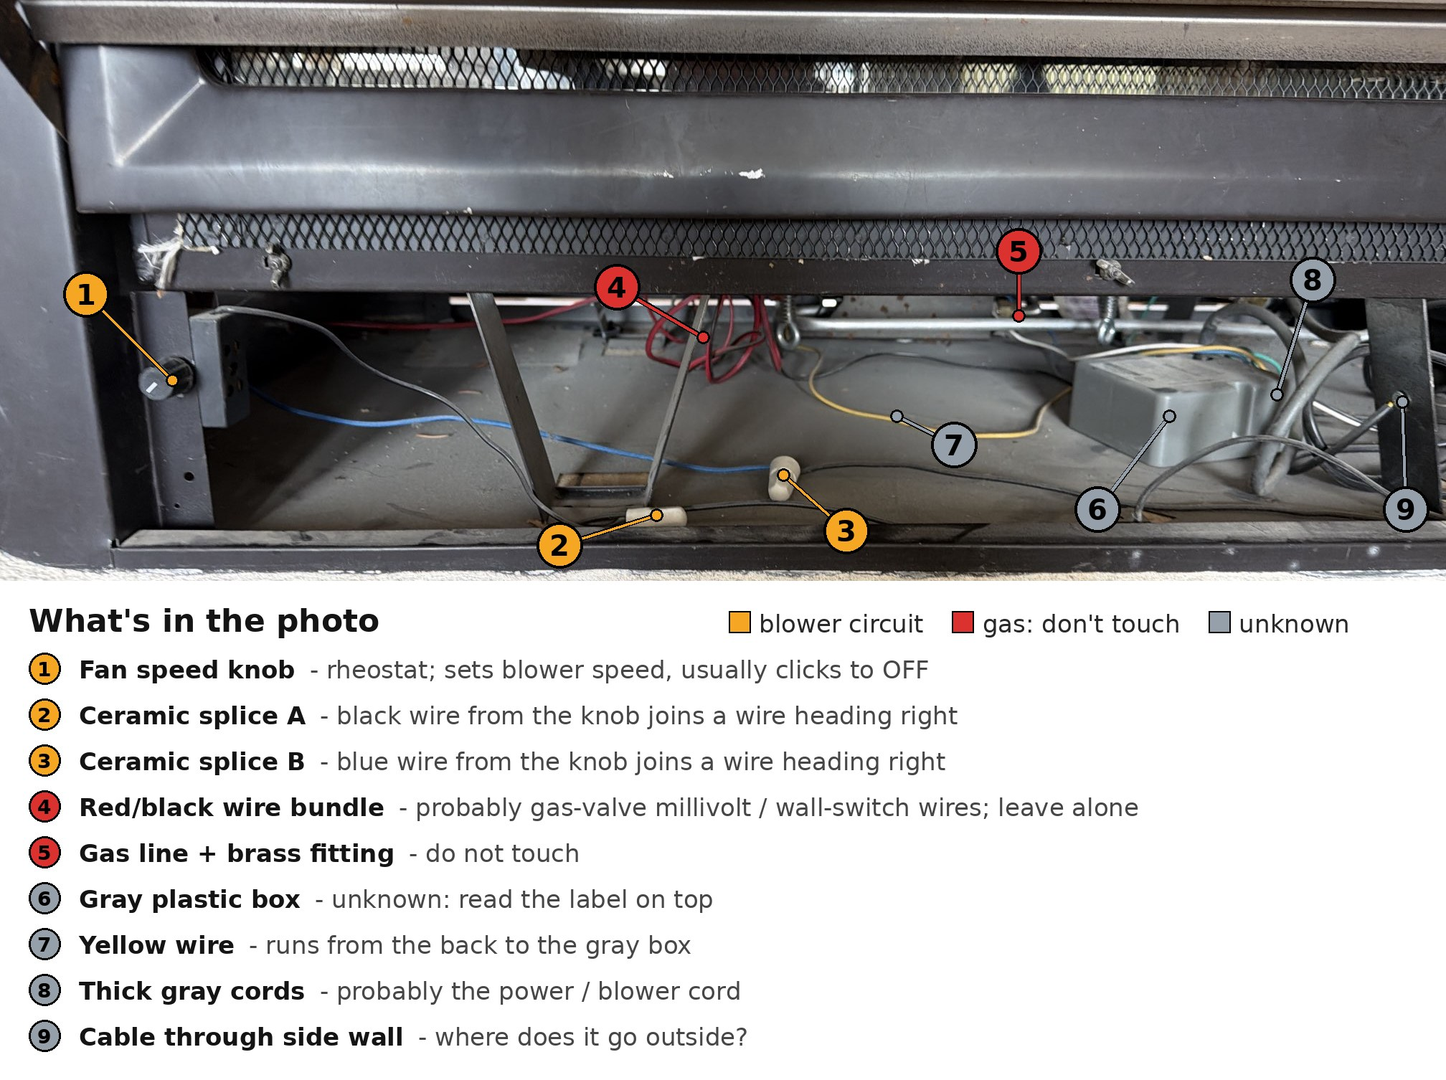
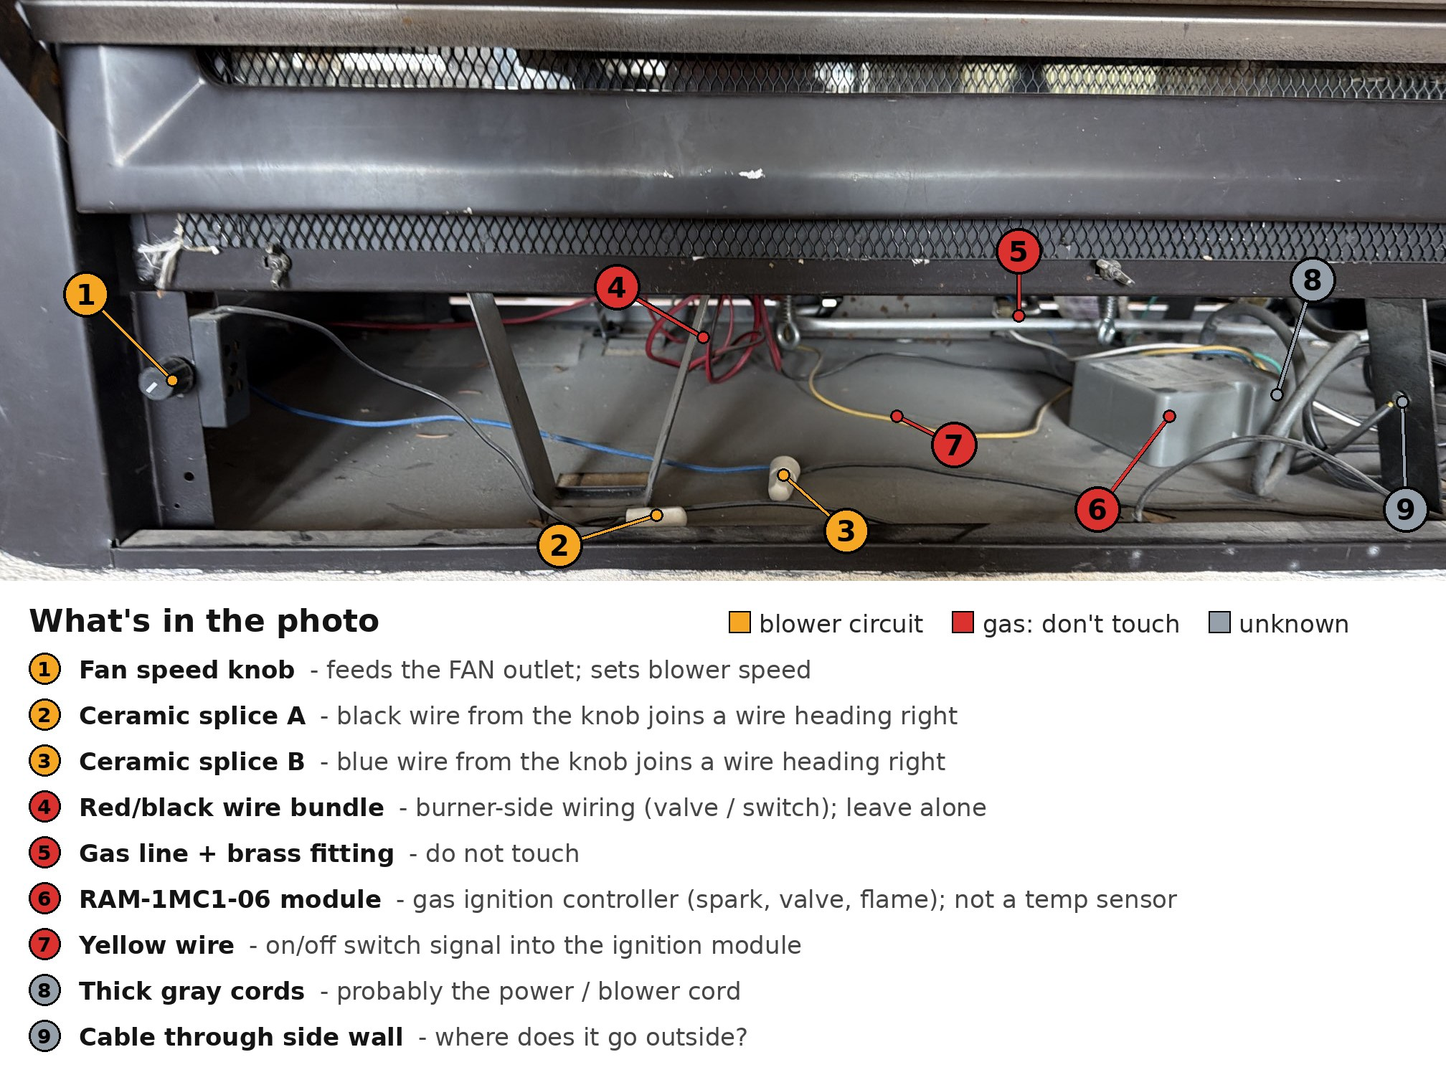
Map the real Heat & Glo DSI wiring and update the Pico hookup
Identify the RAM-1MC1-06 ignition module and the junction box's REM
(always on) and FAN (fed through the speed knob) outlets from the
manufacturer's DSI service diagram. Redraw the schematic to match,
relabel the photos, add checks for the dead FAN outlet, and change the
Pico setup to plug the IoT Relay into the REM outlet.

Claude-Session: https://claude.ai/code/session_018uak9j8cmQfDt7bDYqRs5F

diff --git a/fireplace-fan/docs/schematic.html b/fireplace-fan/docs/schematic.html
@@ -8,158 +8,164 @@
   .lbl { font-size: 16px; font-weight: bold; }
   .sm { font-size: 14px; fill: #444; }
   .warn { font-size: 14px; fill: #c0392b; font-weight: bold; }
+  .ok { font-size: 14px; fill: #b8740a; font-weight: bold; }
   .box { fill: #f4f5f7; stroke: #333; stroke-width: 2; }
   .assumed { fill: #fafafa; stroke: #777; stroke-width: 2; stroke-dasharray: 7 5; }
+  .gasbox { fill: #fdeceb; stroke: #c0392b; stroke-width: 2; }
   .hot { stroke: #222; stroke-width: 4; fill: none; }
-  .hot-a { stroke: #222; stroke-width: 4; fill: none; stroke-dasharray: 10 7; }
-  .neu-a { stroke: #9aa0a6; stroke-width: 4; fill: none; stroke-dasharray: 10 7; }
-  .gnd-a { stroke: #2e9e44; stroke-width: 4; fill: none; stroke-dasharray: 10 7; }
+  .yel { stroke: #d4a017; stroke-width: 4; fill: none; }
   .lv { stroke: #2a6fdb; stroke-width: 3; fill: none; }
   .tc { stroke: #e67e22; stroke-width: 3; fill: none; }
   .splice { fill: #efe6d2; stroke: #8a7c5c; stroke-width: 2; }
   .divider { stroke: #ddd; stroke-width: 2; }
 </style></head>
 <body>
-<svg xmlns="http://www.w3.org/2000/svg" width="1000" height="1215" viewBox="0 0 1000 1215">
+<svg xmlns="http://www.w3.org/2000/svg" width="1000" height="1250" viewBox="0 0 1000 1250">
+  <defs>
+    <g id="outlet">
+      <rect x="0" y="0" width="140" height="62" rx="8" fill="#fff" stroke="#333" stroke-width="2"/>
+      <rect x="14" y="18" width="5" height="16" fill="#333"/>
+      <rect x="30" y="18" width="5" height="16" fill="#333"/>
+      <path d="M20 44 a4.5 4.5 0 0 1 9 0 v4 h-9 z" fill="#333"/>
+    </g>
+  </defs>
 
   <!-- ================= PANEL 1 ================= -->
-  <text x="30" y="42" class="title">1 · How it's most likely wired now</text>
-  <text x="30" y="68" class="sub">Solid = seen in your photo. Dashed = typical for a fireplace blower kit, still to confirm.</text>
+  <text x="30" y="42" class="title">1 · How your fireplace is wired</text>
+  <text x="30" y="68" class="sub">From Heat &amp; Glo's service diagram for RAM-1MC1 fireplaces, matched to your photos. Hot side only.</text>
 
-  <!-- plug -->
-  <rect x="30" y="100" width="120" height="320" rx="10" class="assumed"/>
-  <text x="90" y="125" text-anchor="middle" class="lbl">Power</text>
-  <text x="90" y="145" text-anchor="middle" class="lbl">cord</text>
-  <text x="140" y="183" text-anchor="end" class="sm">hot</text>
-  <text x="140" y="353" text-anchor="end" class="sm">neutral</text>
-  <text x="140" y="393" text-anchor="end" class="sm">ground</text>
+  <!-- hot bus -->
+  <text x="60" y="108" text-anchor="middle" class="lbl">120 V in</text>
+  <text x="60" y="126" text-anchor="middle" class="sm">(hot)</text>
+  <path d="M60 135 V450" class="hot"/>
+  <text x="46" y="350" class="sm" transform="rotate(-90 46 350)" text-anchor="middle">junction box</text>
 
-  <!-- hot path -->
-  <path d="M150 190 H230" class="hot-a"/>
-  <rect x="230" y="176" width="44" height="28" rx="12" class="splice"/>
-  <text x="252" y="196" text-anchor="middle" class="lbl">A</text>
-  <path d="M274 190 H320" class="hot"/>
+  <!-- Rung 1: REM -->
+  <path d="M60 170 H560" class="hot"/>
+  <use href="#outlet" x="560" y="139"/>
+  <text x="660" y="168" text-anchor="middle" class="lbl">REM</text>
+  <text x="660" y="188" text-anchor="middle" class="sm">always on</text>
+  <text x="715" y="160" class="ok">← blower is plugged in here now,</text>
+  <text x="730" y="180" class="ok">so it runs full blast</text>
+  <text x="300" y="160" text-anchor="middle" class="sm">straight from the house power, no control</text>
 
-  <!-- knob / rheostat -->
-  <rect x="320" y="140" width="150" height="100" rx="8" class="box"/>
-  <path d="M340 190 l10 0 l6 -14 l12 28 l12 -28 l12 28 l12 -28 l12 28 l12 -28 l6 14 l10 0" stroke="#222" stroke-width="3" fill="none"/>
-  <path d="M365 222 L430 160" stroke="#222" stroke-width="2.5"/>
-  <path d="M430 160 l-12 2 l8 8 z" fill="#222"/>
-  <text x="395" y="268" text-anchor="middle" class="lbl">① Speed knob</text>
-  <text x="395" y="288" text-anchor="middle" class="sm">(rheostat)</text>
+  <!-- Rung 2: FAN via knob -->
+  <path d="M60 270 H105" class="hot"/>
+  <rect x="105" y="256" width="40" height="28" rx="12" class="splice"/>
+  <text x="125" y="276" text-anchor="middle" class="lbl">A</text>
+  <path d="M145 270 H170" class="hot"/>
+  <rect x="170" y="230" width="140" height="80" rx="8" class="box"/>
+  <path d="M182 270 l10 0 l6 -12 l11 24 l11 -24 l11 24 l11 -24 l11 24 l11 -24 l6 12 l10 0" stroke="#222" stroke-width="3" fill="none"/>
+  <path d="M205 296 L268 244" stroke="#222" stroke-width="2.5"/>
+  <path d="M268 244 l-11 2 l7 7 z" fill="#222"/>
+  <text x="240" y="330" text-anchor="middle" class="lbl">① Speed knob</text>
+  <path d="M310 270 H330" class="hot"/>
+  <rect x="330" y="256" width="40" height="28" rx="12" class="splice"/>
+  <text x="350" y="276" text-anchor="middle" class="lbl">B</text>
+  <path d="M370 270 H400" class="hot"/>
+  <rect x="400" y="232" width="135" height="76" rx="8" class="assumed"/>
+  <circle cx="420" cy="270" r="5" fill="#222"/>
+  <circle cx="515" cy="270" r="5" fill="#222"/>
+  <path d="M420 270 L505 246" stroke="#222" stroke-width="3"/>
+  <text x="467" y="298" text-anchor="middle" class="sm">only if fitted</text>
+  <text x="467" y="330" text-anchor="middle" class="lbl">Fan temp switch?</text>
+  <text x="467" y="348" text-anchor="middle" class="sm">(loose plug #16?)</text>
+  <path d="M535 270 H560" class="hot"/>
+  <use href="#outlet" x="560" y="239"/>
+  <text x="660" y="268" text-anchor="middle" class="lbl">FAN</text>
+  <text x="660" y="288" text-anchor="middle" class="sm">switched</text>
+  <text x="715" y="260" class="warn">← blower's normal spot,</text>
+  <text x="730" y="280" class="warn">no power right now</text>
 
-  <path d="M470 190 H516" class="hot"/>
-  <rect x="516" y="176" width="44" height="28" rx="12" class="splice"/>
-  <text x="538" y="196" text-anchor="middle" class="lbl">B</text>
-  <path d="M560 190 H620" class="hot-a"/>
-
-  <!-- snap disc -->
-  <rect x="620" y="130" width="170" height="120" rx="8" class="assumed"/>
-  <circle cx="650" cy="190" r="6" fill="#222"/>
-  <circle cx="760" cy="190" r="6" fill="#222"/>
-  <path d="M650 190 L748 158" stroke="#222" stroke-width="3.5"/>
-  <path d="M620 190 H644 M766 190 H790" stroke="#222" stroke-width="4" stroke-dasharray="10 7"/>
-  <text x="705" y="230" text-anchor="middle" class="sm">closes when hot</text>
-  <text x="705" y="272" text-anchor="middle" class="lbl">Fan temp switch</text>
-  <text x="705" y="292" text-anchor="middle" class="sm">(snap disc, not in photo)</text>
-  <text x="705" y="312" text-anchor="middle" class="warn">← probably the dead part</text>
-
-  <!-- to motor -->
-  <path d="M790 190 H880 V228" class="hot-a"/>
-  <circle cx="880" cy="270" r="42" class="assumed"/>
-  <text x="880" y="280" text-anchor="middle" style="font-size:30px;font-weight:bold">M</text>
-  <text x="930" y="276" class="lbl">Blower</text>
-
-  <!-- neutral return -->
-  <path d="M880 312 V360 H150" class="neu-a"/>
-  <text x="520" y="384" text-anchor="middle" class="sm">neutral (white) runs straight back to the cord</text>
-
-  <!-- ground -->
-  <path d="M150 400 H250 V418" class="gnd-a"/>
-  <path d="M228 418 H272 M235 427 H265 M243 436 H257" stroke="#2e9e44" stroke-width="3"/>
-  <text x="285" y="432" class="sm">ground (green) to the metal chassis</text>
+  <!-- Burner side -->
+  <rect x="160" y="372" width="810" height="128" rx="10" fill="#fdf3f2" stroke="#e8b4ae" stroke-width="1.5" stroke-dasharray="6 4"/>
+  <text x="180" y="394" class="warn">Burner side: leave alone</text>
+  <!-- Rung 3: on/off switch -->
+  <path d="M60 425 H180" class="hot"/>
+  <rect x="180" y="404" width="150" height="44" rx="8" class="box"/>
+  <text x="255" y="432" text-anchor="middle" class="lbl">On/off switch</text>
+  <path d="M330 425 H560" class="yel"/>
+  <text x="445" y="416" text-anchor="middle" class="sm">yellow (#7)</text>
+  <!-- Rung 4: module power -->
+  <path d="M60 450 V478 H560" class="hot"/>
+  <text x="300" y="470" text-anchor="middle" class="sm">black</text>
+  <rect x="560" y="404" width="140" height="86" rx="8" class="gasbox"/>
+  <text x="630" y="432" text-anchor="middle" class="lbl">RAM module</text>
+  <text x="630" y="452" text-anchor="middle" class="sm">#6, ignition</text>
+  <text x="630" y="472" text-anchor="middle" class="sm">controller</text>
+  <path d="M700 447 H740" stroke="#c0392b" stroke-width="3"/>
+  <rect x="740" y="404" width="215" height="86" rx="8" class="gasbox"/>
+  <text x="847" y="432" text-anchor="middle" class="lbl">Gas valve</text>
+  <text x="847" y="452" text-anchor="middle" class="sm">spark ignitor,</text>
+  <text x="847" y="472" text-anchor="middle" class="sm">flame sensor</text>
 
   <!-- notes -->
-  <text x="30" y="477" class="sm">• Splices A and B are the two ceramic wire nuts in your photo, one on each of the knob's wires (black and blue).</text>
-  <text x="30" y="501" class="sm">• The knob and the temp switch may be in the opposite order. It works the same: the blower only gets power</text>
-  <text x="44" y="523" class="sm">when the knob is on AND the switch is hot (closed).</text>
-  <text x="30" y="547" class="sm">• Not shown: gas valve, red millivolt wires and gas line (separate system, don't touch) and the gray box (unknown).</text>
+  <text x="30" y="535" class="sm">• Neutral (white) and ground (green) return to the junction box and aren't drawn.</text>
+  <text x="30" y="559" class="sm">• The RAM module lights and watches the burner. It isn't a temperature sensor and has no fan wires.</text>
+  <text x="30" y="583" class="sm">• The factory diagram feeds FAN through the speed knob only. A fan temp switch, if your unit has one, sits in the</text>
+  <text x="44" y="605" class="sm">dashed box. Either way, the dead FAN outlet means something in that row is open.</text>
 
-  <line x1="30" y1="577" x2="970" y2="577" class="divider"/>
+  <line x1="30" y1="635" x2="970" y2="635" class="divider"/>
 
   <!-- ================= PANEL 2 ================= -->
-  <g transform="translate(0,25)">
-  <text x="30" y="608" class="title">2 · With the Pico</text>
-  <text x="30" y="634" class="sub">The only change inside the fireplace: join the dead switch's two wires and put the probe in its place.</text>
+  <g transform="translate(0,40)">
+  <text x="30" y="640" class="title">2 · With the Pico (no wiring changes)</text>
+  <text x="30" y="666" class="sub">The relay plugs into REM, the blower plugs into the relay. The Pico decides when the blower runs.</text>
 
   <!-- Probe chain (top row) -->
-  <rect x="330" y="670" width="150" height="70" rx="8" class="box"/>
-  <text x="405" y="701" text-anchor="middle" class="lbl">Pi Pico</text>
-  <text x="405" y="722" text-anchor="middle" class="sm">main.py</text>
+  <rect x="330" y="700" width="150" height="70" rx="8" class="box"/>
+  <text x="405" y="731" text-anchor="middle" class="lbl">Pi Pico</text>
+  <text x="405" y="752" text-anchor="middle" class="sm">main.py</text>
 
-  <rect x="560" y="670" width="140" height="70" rx="8" class="box"/>
-  <text x="630" y="701" text-anchor="middle" class="lbl">MAX6675</text>
-  <text x="630" y="722" text-anchor="middle" class="sm">board</text>
-  <path d="M480 705 H560" class="lv"/>
-  <text x="520" y="695" text-anchor="middle" class="sm">SPI</text>
+  <rect x="560" y="700" width="140" height="70" rx="8" class="box"/>
+  <text x="630" y="731" text-anchor="middle" class="lbl">MAX6675</text>
+  <text x="630" y="752" text-anchor="middle" class="sm">board</text>
+  <path d="M480 735 H560" class="lv"/>
+  <text x="520" y="725" text-anchor="middle" class="sm">SPI</text>
 
-  <rect x="780" y="660" width="190" height="90" rx="8" class="box" style="fill:#fdf1e6"/>
-  <text x="875" y="692" text-anchor="middle" class="lbl">Thermocouple</text>
-  <text x="875" y="713" text-anchor="middle" class="sm">mounted where the</text>
-  <text x="875" y="732" text-anchor="middle" class="sm">old switch was</text>
-  <path d="M700 705 H780" class="tc"/>
-  <text x="740" y="695" text-anchor="middle" class="sm">probe</text>
+  <rect x="780" y="690" width="190" height="90" rx="8" class="box" style="fill:#fdf1e6"/>
+  <text x="875" y="722" text-anchor="middle" class="lbl">Thermocouple</text>
+  <text x="875" y="743" text-anchor="middle" class="sm">clamped to the</text>
+  <text x="875" y="762" text-anchor="middle" class="sm">firebox underside</text>
+  <path d="M700 735 H780" class="tc"/>
+  <text x="740" y="725" text-anchor="middle" class="sm">probe</text>
 
   <!-- USB charger -->
-  <rect x="330" y="780" width="150" height="46" rx="8" class="box"/>
-  <text x="405" y="809" text-anchor="middle" class="lbl">USB charger</text>
-  <path d="M405 780 V740" class="lv"/>
+  <rect x="330" y="810" width="150" height="46" rx="8" class="box"/>
+  <text x="405" y="839" text-anchor="middle" class="lbl">USB charger</text>
+  <path d="M405 810 V770" class="lv"/>
 
   <!-- Relay -->
-  <rect x="40" y="700" width="230" height="290" rx="10" class="box" style="fill:#eef3fb"/>
-  <text x="155" y="735" text-anchor="middle" class="lbl">IoT Relay</text>
-  <rect x="120" y="688" width="70" height="24" rx="4" fill="#3a9d5d" stroke="#222" stroke-width="1.5"/>
-  <text x="155" y="705" text-anchor="middle" style="font-size:13px;font-weight:bold;fill:#fff">+   −</text>
-  <path d="M330 705 H300 V676 H155 V688" class="lv"/>
-  <text x="300" y="666" text-anchor="middle" class="sm" style="fill:#2a6fdb">GP15→+  GND→−</text>
+  <rect x="40" y="730" width="230" height="290" rx="10" class="box" style="fill:#eef3fb"/>
+  <text x="155" y="765" text-anchor="middle" class="lbl">IoT Relay</text>
+  <rect x="120" y="718" width="70" height="24" rx="4" fill="#3a9d5d" stroke="#222" stroke-width="1.5"/>
+  <text x="155" y="735" text-anchor="middle" style="font-size:13px;font-weight:bold;fill:#fff">+   −</text>
+  <path d="M330 735 H300 V706 H155 V718" class="lv"/>
+  <text x="300" y="696" text-anchor="middle" class="sm" style="fill:#2a6fdb">GP15→+  GND→−</text>
 
-  <text x="60" y="808" class="sm">Always ON</text>
-  <path d="M175 803 H330" class="hot"/>
-  <text x="60" y="888" class="lbl">Normally ON</text>
-  <text x="60" y="958" class="sm" style="fill:#999">Normally OFF (empty)</text>
+  <text x="60" y="838" class="sm">Always ON</text>
+  <path d="M175 833 H330" class="hot"/>
+  <text x="60" y="918" class="lbl">Normally ON</text>
+  <text x="60" y="988" class="sm" style="fill:#999">Normally OFF (empty)</text>
 
-  <!-- wall outlet -->
-  <rect x="80" y="1030" width="150" height="50" rx="8" class="box"/>
-  <text x="155" y="1061" text-anchor="middle" class="lbl">Wall outlet</text>
-  <path d="M155 1030 V990" class="hot"/>
+  <!-- REM outlet feeding relay -->
+  <use href="#outlet" x="85" y="1060"/>
+  <text x="185" y="1089" text-anchor="middle" class="lbl">REM</text>
+  <text x="185" y="1107" text-anchor="middle" class="sm">outlet</text>
+  <path d="M155 1060 V1020" class="hot"/>
 
-  <!-- Blower chain (bottom row) -->
-  <path d="M190 883 H300" class="hot"/>
-  <text x="318" y="873" text-anchor="middle" class="sm">cord</text>
-  <path d="M300 883 H360" class="hot"/>
-  <rect x="360" y="869" width="44" height="28" rx="12" class="splice"/>
-  <text x="382" y="889" text-anchor="middle" class="lbl">A</text>
-  <path d="M404 883 H440" class="hot"/>
-  <rect x="440" y="848" width="110" height="70" rx="8" class="box"/>
-  <text x="495" y="888" text-anchor="middle" class="lbl">① Knob</text>
-  <path d="M550 883 H586" class="hot"/>
-  <rect x="586" y="869" width="44" height="28" rx="12" class="splice"/>
-  <text x="608" y="889" text-anchor="middle" class="lbl">B</text>
-  <path d="M630 883 H670" class="hot"/>
-  <rect x="670" y="843" width="150" height="80" rx="8" style="fill:#e9f7ee;stroke:#2e9e44;stroke-width:2.5"/>
-  <text x="745" y="874" text-anchor="middle" class="lbl">Jumper</text>
-  <text x="745" y="895" text-anchor="middle" class="sm">old switch wires</text>
-  <text x="745" y="913" text-anchor="middle" class="sm">joined together</text>
-  <path d="M820 883 H870" class="hot"/>
-  <circle cx="910" cy="883" r="40" class="box"/>
-  <text x="910" y="893" text-anchor="middle" style="font-size:28px;font-weight:bold">M</text>
-  <text x="910" y="945" text-anchor="middle" class="lbl">Blower</text>
-  <text x="560" y="960" text-anchor="middle" class="sm">(neutral and ground unchanged, not drawn)</text>
+  <!-- Blower chain -->
+  <path d="M190 913 H850" class="hot"/>
+  <text x="520" y="903" text-anchor="middle" class="sm">blower's own plug and cord</text>
+  <circle cx="890" cy="913" r="40" class="box"/>
+  <text x="890" y="923" text-anchor="middle" style="font-size:28px;font-weight:bold">M</text>
+  <text x="890" y="975" text-anchor="middle" class="lbl">Blower</text>
 
-  <!-- notes -->
-  <text x="30" y="1120" class="sm">• Blue = 3.3 V low-voltage wiring. Black = 120 V, but all of it is in the cords and the sealed relay, so you plug things in and don't wire it.</text>
-  <text x="30" y="1144" class="sm">• Pico off, crashed or unplugged → "Normally ON" outlet stays on → blower runs at the knob's speed (fail-safe).</text>
-  <text x="30" y="1168" class="sm">• The knob still sets speed and can still turn the blower fully off.</text>
+  <text x="300" y="1010" class="sm">• Pico off or crashed → the "Normally ON" outlet stays on → blower runs (fail-safe).</text>
+  <text x="300" y="1034" class="sm">• Blue = 3.3 V wiring. All 120 V stays inside cords and the sealed relay.</text>
+  <text x="300" y="1058" class="sm">• The blower runs full speed when on, since the knob isn't in this path.</text>
+  <text x="314" y="1082" class="sm">For speed control, the FAN outlet has to work again first.</text>
+  <text x="300" y="1106" class="sm">• Keep the relay, charger and Pico where they stay cool (not on hot metal).</text>
   </g>
 </svg>
 </body></html>

diff --git a/fireplace-fan/README.md b/fireplace-fan/README.md
@@ -143,33 +143,48 @@ and connect the Pico to your computer with Thonny open so you can watch the log:
 
 ![Likely blower wiring now, and with the Pico](docs/schematic.png)
 
-The blower circuit in most fireplace blower kits is simple: **cord → speed knob →
-fan temp switch → blower → back to the cord**, with everything in series. The
-diagram above is that typical layout matched to the parts in the photo. Confirm
-it on your unit before changing anything:
+This fireplace is a **Heat & Glo with direct spark ignition**, controlled by a
+**RAM-1MC1-06** module (#6). The schematic above follows Heat & Glo's service
+diagram for that module family (Mountain View Hearth Products' *DSI Troubleshooting
+Guide*, pages 4–7), matched to the parts in the photos:
 
-**Do all of this with the fireplace off, cooled down, and its power cord unplugged.**
+- **Junction box** (right side of the compartment) takes in 120 V and has two outlets:
+  - **REM** (#13): always on. The blower is plugged in here right now, which is why it runs full blast with no control.
+  - **FAN** (#14): powered *through the speed knob* (#1, by way of ceramic splices #2 and #3). This is where the blower is meant to plug in. It has no power right now.
+- **RAM module** (#6): the gas *ignition* controller. It sparks the ignitor, opens the gas valve, and watches the flame. It is **not** a temperature sensor and has no fan wires. Leave it, the on/off switch's yellow wire (#7), the gas valve and the gas line alone.
+- **Fan temperature switch:** the factory diagram doesn't have one; FAN is fed only through the knob. Some units add one with a blower kit. The loose spade connector (#16) may be where one connected.
 
-1. **Find the rating plate.** It's a metal tag, often on a chain in this compartment or riveted to a side wall. The model number leads to the manual, which has the real wiring diagram.
-2. **Photograph the label on the gray plastic box** (#6 in the photo) and trace its wires. It might be a junction box, a remote-control receiver, or part of the gas controls.
-3. **Follow the two black wires leaving the ceramic splices** (#2 and #3) to their other ends. One should lead to the power cord. The other leads toward the temp switch or the blower.
-4. **Find the fan temp switch.** It's a disc about 1" across with two spade terminals, usually on the underside of the firebox or on the blower housing, often stamped with something like `F120-20F` or `L120`.
-5. **Test the switch with a multimeter on continuity**, with one wire pulled off it:
-   - Cold: **no beep (open)**. *That's normal.* The switch is supposed to be open when cold.
-   - After heating it with a hair dryer for a minute: it **should beep**. If it never closes when hot, it's dead.
-6. **Test the knob:** continuity across its two wires (black and blue). It should be open in the OFF click and beep when turned up.
-7. **Quick proof, no Pico needed:** still unplugged, join the temp switch's two wires together with a short insulated jumper. Plug in and turn the knob. If the blower runs, the temp switch was the problem and the rest of the circuit is fine. That jumper is exactly what the Pico setup uses.
+### Why the FAN outlet is dead: checks
 
-The red wires (#4) and the gas line (#5) belong to the gas valve, a separate
-system. Don't connect anything to them.
+**Do these with the fireplace off, cooled down, and its power cord unplugged.**
+
+1. **Connector #16:** follow its wire both ways. If it belongs on a terminal of the knob, the junction box or a small disc-shaped switch, push it back on firmly. That alone may bring the FAN outlet back.
+2. **Speed knob:** set a multimeter to continuity (or ohms) across the knob's two wires (black and blue). Fully up should read close to 0 Ω or beep. Fully down/off should read open. If it reads open at every setting, the knob is dead (it's a standard fireplace blower speed control and easy to replace).
+3. **Ceramic splices #2 and #3:** unscrew each one and check the wires inside are tight and not burnt.
+4. **Plug back in, then test:** a lamp in the FAN outlet with the knob turned up should light. If it does, plug the blower back into FAN to get speed control again.
+
+## Hook up the Pico (no wiring changes)
+
+The Pico doesn't need the FAN outlet at all:
+
+1. Plug the **IoT Relay** into the **REM** outlet (always on).
+2. Plug the **blower** into the relay's **"Normally ON"** outlet.
+3. Plug the **USB charger** for the Pico into the relay's **"Always ON"** outlet.
+4. Clamp the **thermocouple** to bare metal on the **underside of the firebox**, where it gets hot within a few minutes of the burner lighting.
+
+The blower then runs **full speed** whenever it's on, because the speed knob only
+feeds the FAN outlet. The relay, charger and Pico are consumer electronics, so put
+them where they stay cool. After an hour of fire, the spot should still be
+comfortable to hold your hand on. If the compartment gets hotter than that, use a
+short extension cord to bring them out.
 
 ## Install in the fireplace
 
 1. **Unplug the fireplace blower** and, for gas, turn the fireplace off and let it cool completely.
-2. **Mount the probe where the old sensor was.** That spot is usually a snap disc screwed or magnet-mounted to the underside of the firebox, or on the blower housing. Bolt a ring/washer probe under the old sensor's screw, or clamp the probe tip firmly against the bare metal. Good metal contact matters more than anything else.
+2. **Mount the probe on the underside of the firebox.** Bolt a ring/washer probe under an existing screw, or clamp the probe tip firmly against bare metal. Good metal contact matters more than anything else.
 3. **Route the probe lead** out of the hot area to where the electronics will sit. Keep it away from moving fan blades and sharp edges.
 4. Place the Pico, the MAX6675 board, and the IoT Relay somewhere **cool**, such as beside the fireplace or behind the lower grill if it stays comfortable to touch.
-5. Plug the blower into **"Normally ON"** and the USB charger into **"Always ON"**.
+5. Plug the relay into the **REM** outlet, the blower into **"Normally ON"**, and the USB charger into **"Always ON"**.
 
 ## Tune it
 
